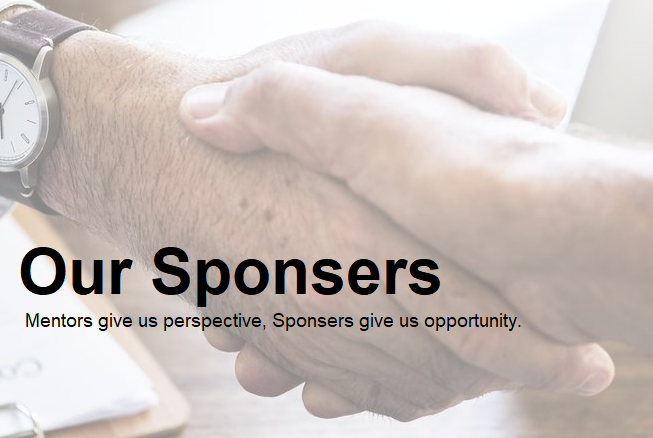
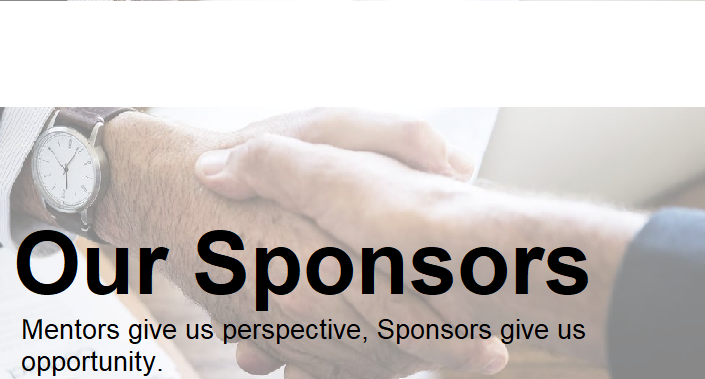
Sponsors page

diff --git a/ZenithPal.github.io/sponsers.html b/ZenithPal.github.io/sponsers.html
@@ -766,22 +766,7 @@
             -ms-flex-line-pack: stretch;
             align-content: stretch
         }
-    
-        /* #sponsors h1 {
-            padding: 2vw 0 0 5vw;    
-            letter-spacing: normal;
-            /* line-height: 20px; */
-            /* color: #000;
-            font-size: 3.5rem;
-            font-weight: 700;    
-        } */
 
-        /* #sponsors p {
-            padding: 0 0 0 5vw;
-            letter-spacing: normal; */
-            /* line-height: 20px; */
-            /* color: #000;    
-        }  */
         .container {
             width: 100%;
             padding: 0 4vw;
@@ -790,38 +775,46 @@
         .spimage {
             border:2px solid #D3D3D3 ;
             border-radius: 5px; 
-            margin-bottom: 100px; 
+            margin-bottom: 6vw; 
         } 
 
         .card {
             box-shadow: 0 4px 8px 0 rgba(0, 0, 0, 0.2);
-            max-width: 300px;
-            margin: auto;
+            width: 90%;
+            margin: 5% auto;
+            max-width: 400px;
             text-align: center;
             font-family: arial;
+            padding-bottom: 20px;
+            
         }
 
         .title {
             color: grey;
-            font-size: 18px;
-        }
+            font-size: 2.2vw;
+        } 
 
-        button {
-            border: none;
-            outline: 0;
-            display: inline-block;
-            padding: 8px;
-            color: white;
-            background-color: #000;
-            text-align: center;
-            cursor: pointer;
-            width: 100%;
-            font-size: 18px;
+        .sm-title {
+            color: grey;
+            font-size: 5vw;
+        } 
+        hr.style-four {
+            height: 12px;
+            border: 0;
+            box-shadow: inset 0 12px 12px -12px rgba(0, 0, 0, 0.5);
         }
-
 
         button:hover, a:hover {
             opacity: 0.7;
+        }
+
+        .grid-container {
+            display: grid;
+            grid-template-columns: auto auto;
+            grid-column-gap: 8vw;
+            grid-row-gap: 6px;
+            /* background-color:; */
+            padding: 1vw 3vw; 
         }
 
     </style>
@@ -4434,30 +4427,72 @@
     <!-- End Sidebar -->
     <!-- End Navbar -->
     <div class="container">
-        <amp-img class="spimage xs-hide sm-hide" src="sponsers.png" layout="responsive" width="1200px" height="400px">
+        <amp-img class="spimage xs-hide sm-hide" src="Sponsers.png" layout="responsive" width="1250px" height="379px">
         </amp-img>
-        <amp-img class="spimage md-hide lg-hide" src="sponsers1.png" layout="responsive" width="1200px" height="400px">
+        <amp-img class="spimage md-hide lg-hide" src="sponsers1.png" layout="responsive" width="705px" height="350px">
         </amp-img>
-        
-        <div class="card">
-            <amp-img src="ace-academy.png" alt="Ace-academy" height="150px" width="200px" ></amp-img>
-            <h1>Ace Engineering Academy</h1>
-            <!-- <p class="title">CEO & Founder, Example</p> -->
-            <!-- <p>Harvard University</p> -->         
-        
-           <p><button>Contact</button></p>
-        </div>
-    </div>    
-    <!-- <pre style="height: 300px; margin: 0">
-        <div class="sponsor-backimg" style="height: 275px; background: url(sponsers.png) no-repeat center; background-size: cover">
-          <div id="sponsors">  
-            <h1>Our Sponsors</h1>
-            <p>Mentors give you perspective, sponsers give you oppurtunity.</p>
-          </div>
-        </div> 
-    </pre> -->
+        <div class="grid-container xs-hide">
+            <div align="center" class="card">
+                <amp-img src="vivo.png" alt="Vivo" layout="responsive" height="60px" width="70px" ></amp-img>
+                <h1 style="font-size: 2.8vw">TITLE SPONSOR</h1>
+                <p class="title">VIVO</p>
+                <p>CAMERA AND MUSIC</p>         
+            </div>
 
-    <!-- Footer -->
+            <div class="card">
+                <amp-img src="ace-academy.png" alt="Ace-academy" layout="responsive" height="60px" width="70px" ></amp-img>
+                <h1 style="font-size: 2.5vw">POWER SPONSOR</h1>
+                <p class="title">ACE ACADEMY</p>
+                <p>ENGINEERING ACADEMY</p>         
+            </div>
+            
+            <div class="card">
+                <amp-img src="kreatryx.jpg" alt="Kreatryx" layout="responsive" height="60px" width="70px" ></amp-img>
+                <h1 style="font-size: 2.5vw">ASSOCIATE SPONSOR</h1>
+                <p class="title">KREATRYX</p>
+                <p>GATE/PSU/SSC PREPARATION SIMPLIFIED</p>         
+            </div>
+
+            <div class="card">
+                <amp-img style="border: 1px #003f93 solid" srcset="dena_bank.jpg" alt="Dena Bank" layout="responsive" height="60px" width="70px" ></amp-img>
+                <h1 style="font-size: 2.5vw">ASSOCIATE SPONSOR</h1>
+                <p class="title">DENA BANK</p>
+                <p>DENA HAI TOH BHAROSA HAI</p>         
+            </div>
+        </div>    
+        <div class="sm-hide md-hide lg-hide">
+            <div class="card">
+                <amp-img src="vivo.png" alt="Vivo" layout="responsive" height="60px" width="70px" ></amp-img>
+                <h1 style="font-size: 4.2vh">TITLE SPONSOR</h1>
+                <p class="sm-title">VIVO</p>
+                <p style="font-size: 2vh">CAMERA AND MUSIC</p>         
+            </div>
+
+            <div class="card">
+                <amp-img src="ace-academy.png" alt="Ace-academy" layout="responsive" height="60px" width="70px" ></amp-img>
+                <h1 style="font-size: 4.2vh; letter-spacing: 0.01;">POWER SPONSOR</h1>
+                <p class="sm-title">ACE ACADEMY</p>
+                <p style="font-size: 2vh">ENGINEERING ACADEMY</p>         
+            </div>
+            
+            <div class="card">
+                <amp-img src="kreatryx.jpg" alt="Kreatryx" layout="responsive" height="60px" width="70px" ></amp-img>
+                <h1 style="font-size: 4.2vh">ASSOCIATE SPONSOR</h1>
+                <p class="sm-title">KREATRYX</p>
+                <p style="font-size: 2vh">GATE/PSU/SSC PREPARATION SIMPLIFIED</p>         
+            </div>
+
+            <div class="card">
+                <amp-img style="border: 1px #003f93 solid" srcset="dena_bank.jpg" alt="Dena Bank" layout="responsive" height="60px" width="70px" ></amp-img>
+                <h1 style="font-size: 4.2vh">ASSOCIATE SPONSOR</h1>
+                <p class="sm-title">DENA BANK</p>
+                <p style="font-size: 2vh">DENA HAI TOH BHAROSA HAI</p>         
+            </div>
+        </div>
+        <br>
+        <hr class="style-four">
+        <br>
+    </div>    
     
     <div class="footer">
         <div class="img-footer">
